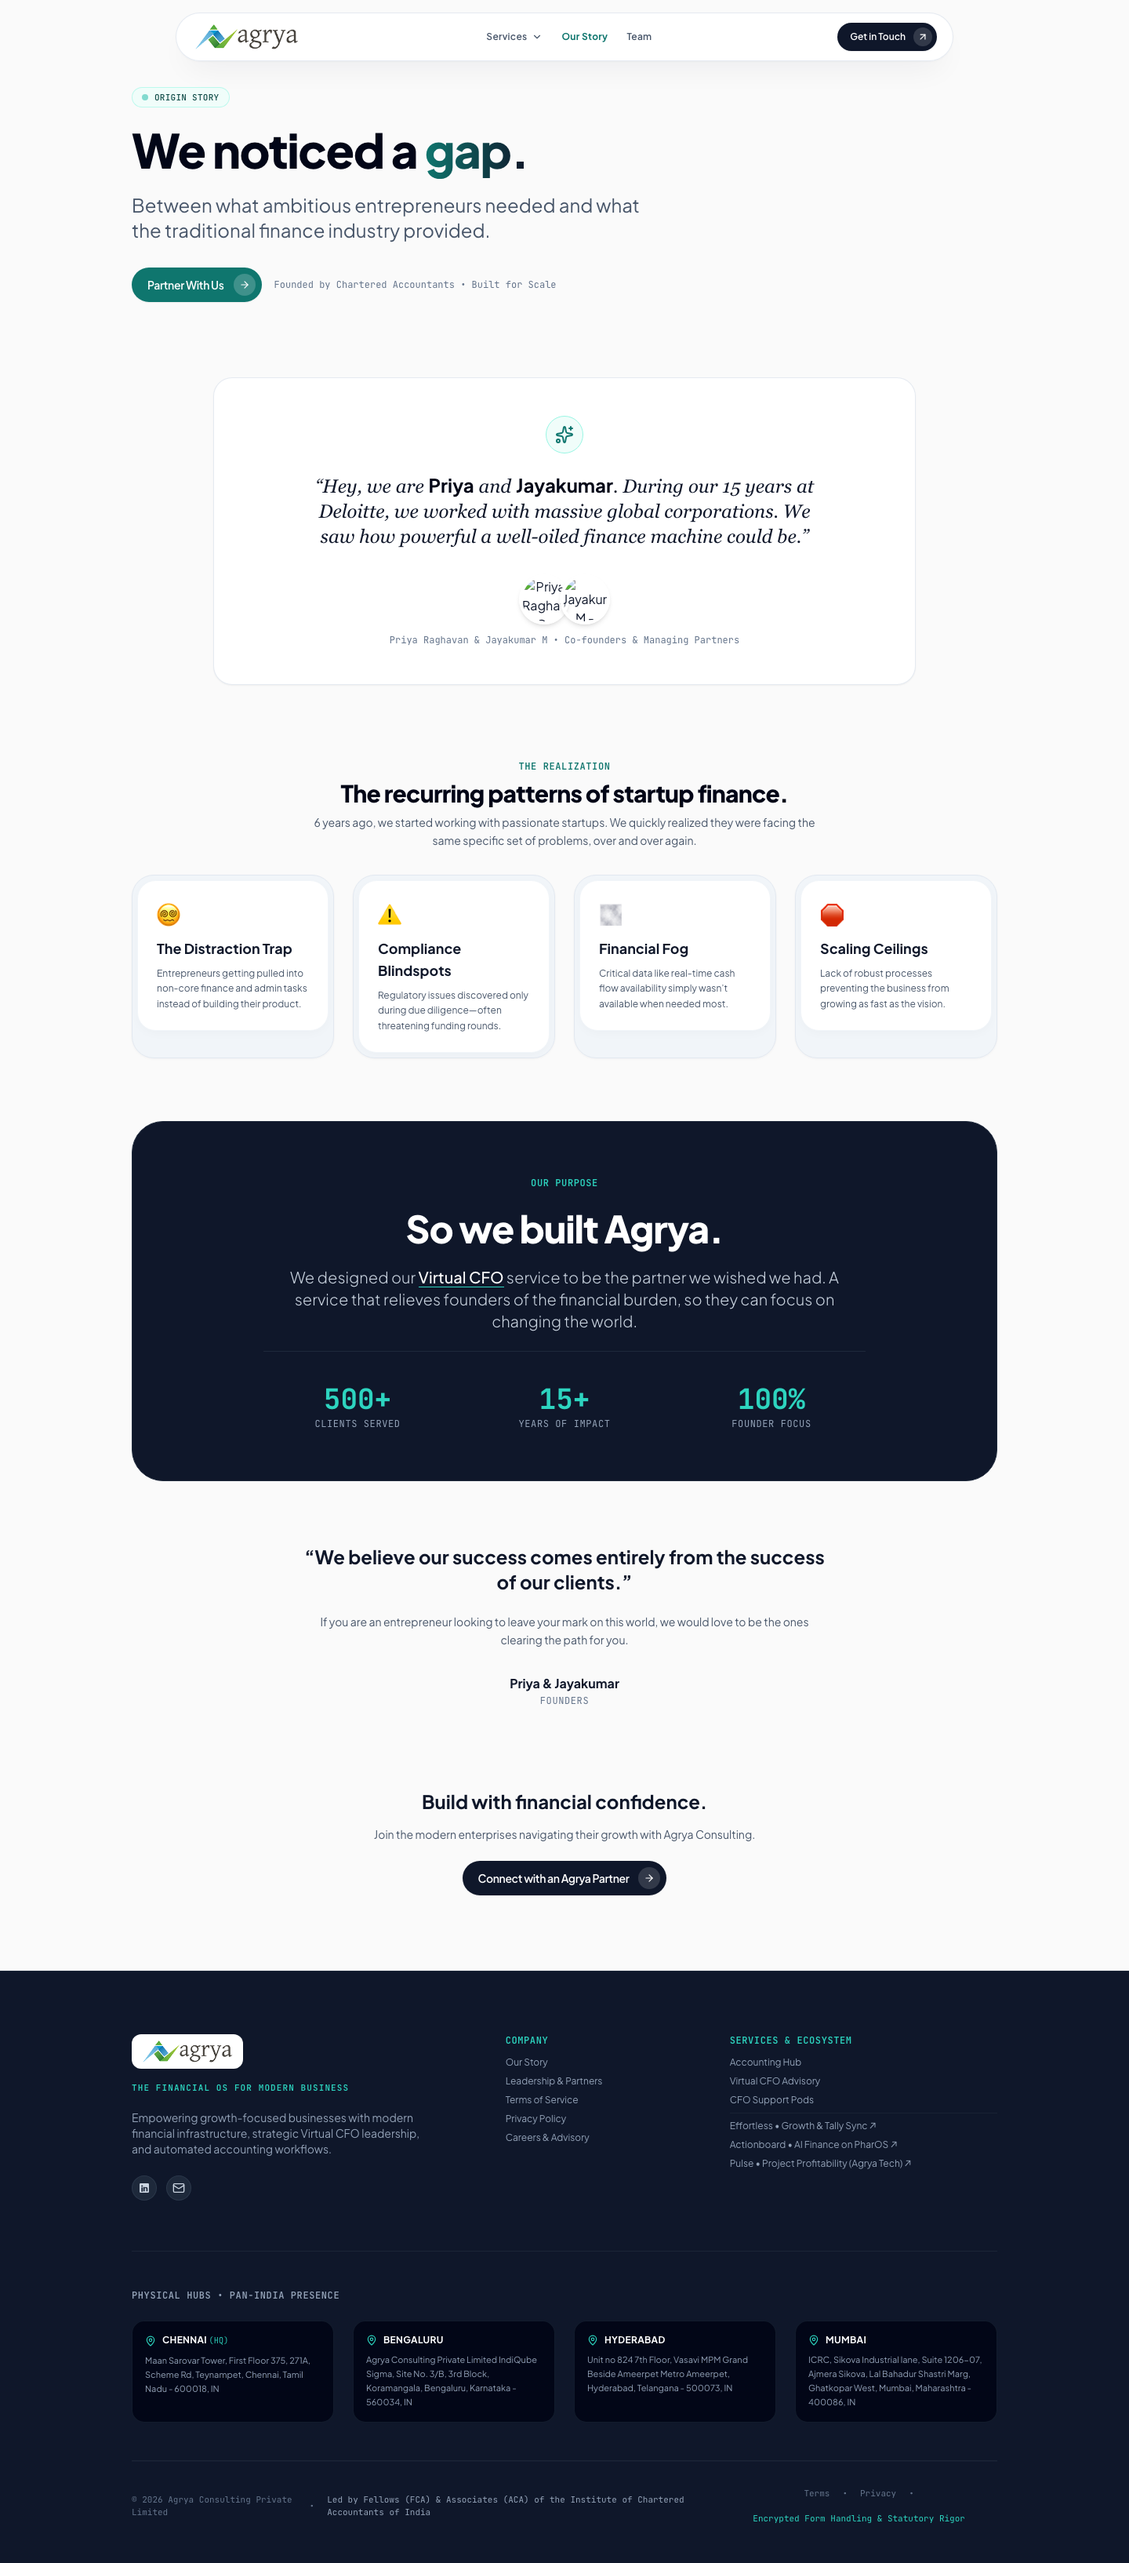
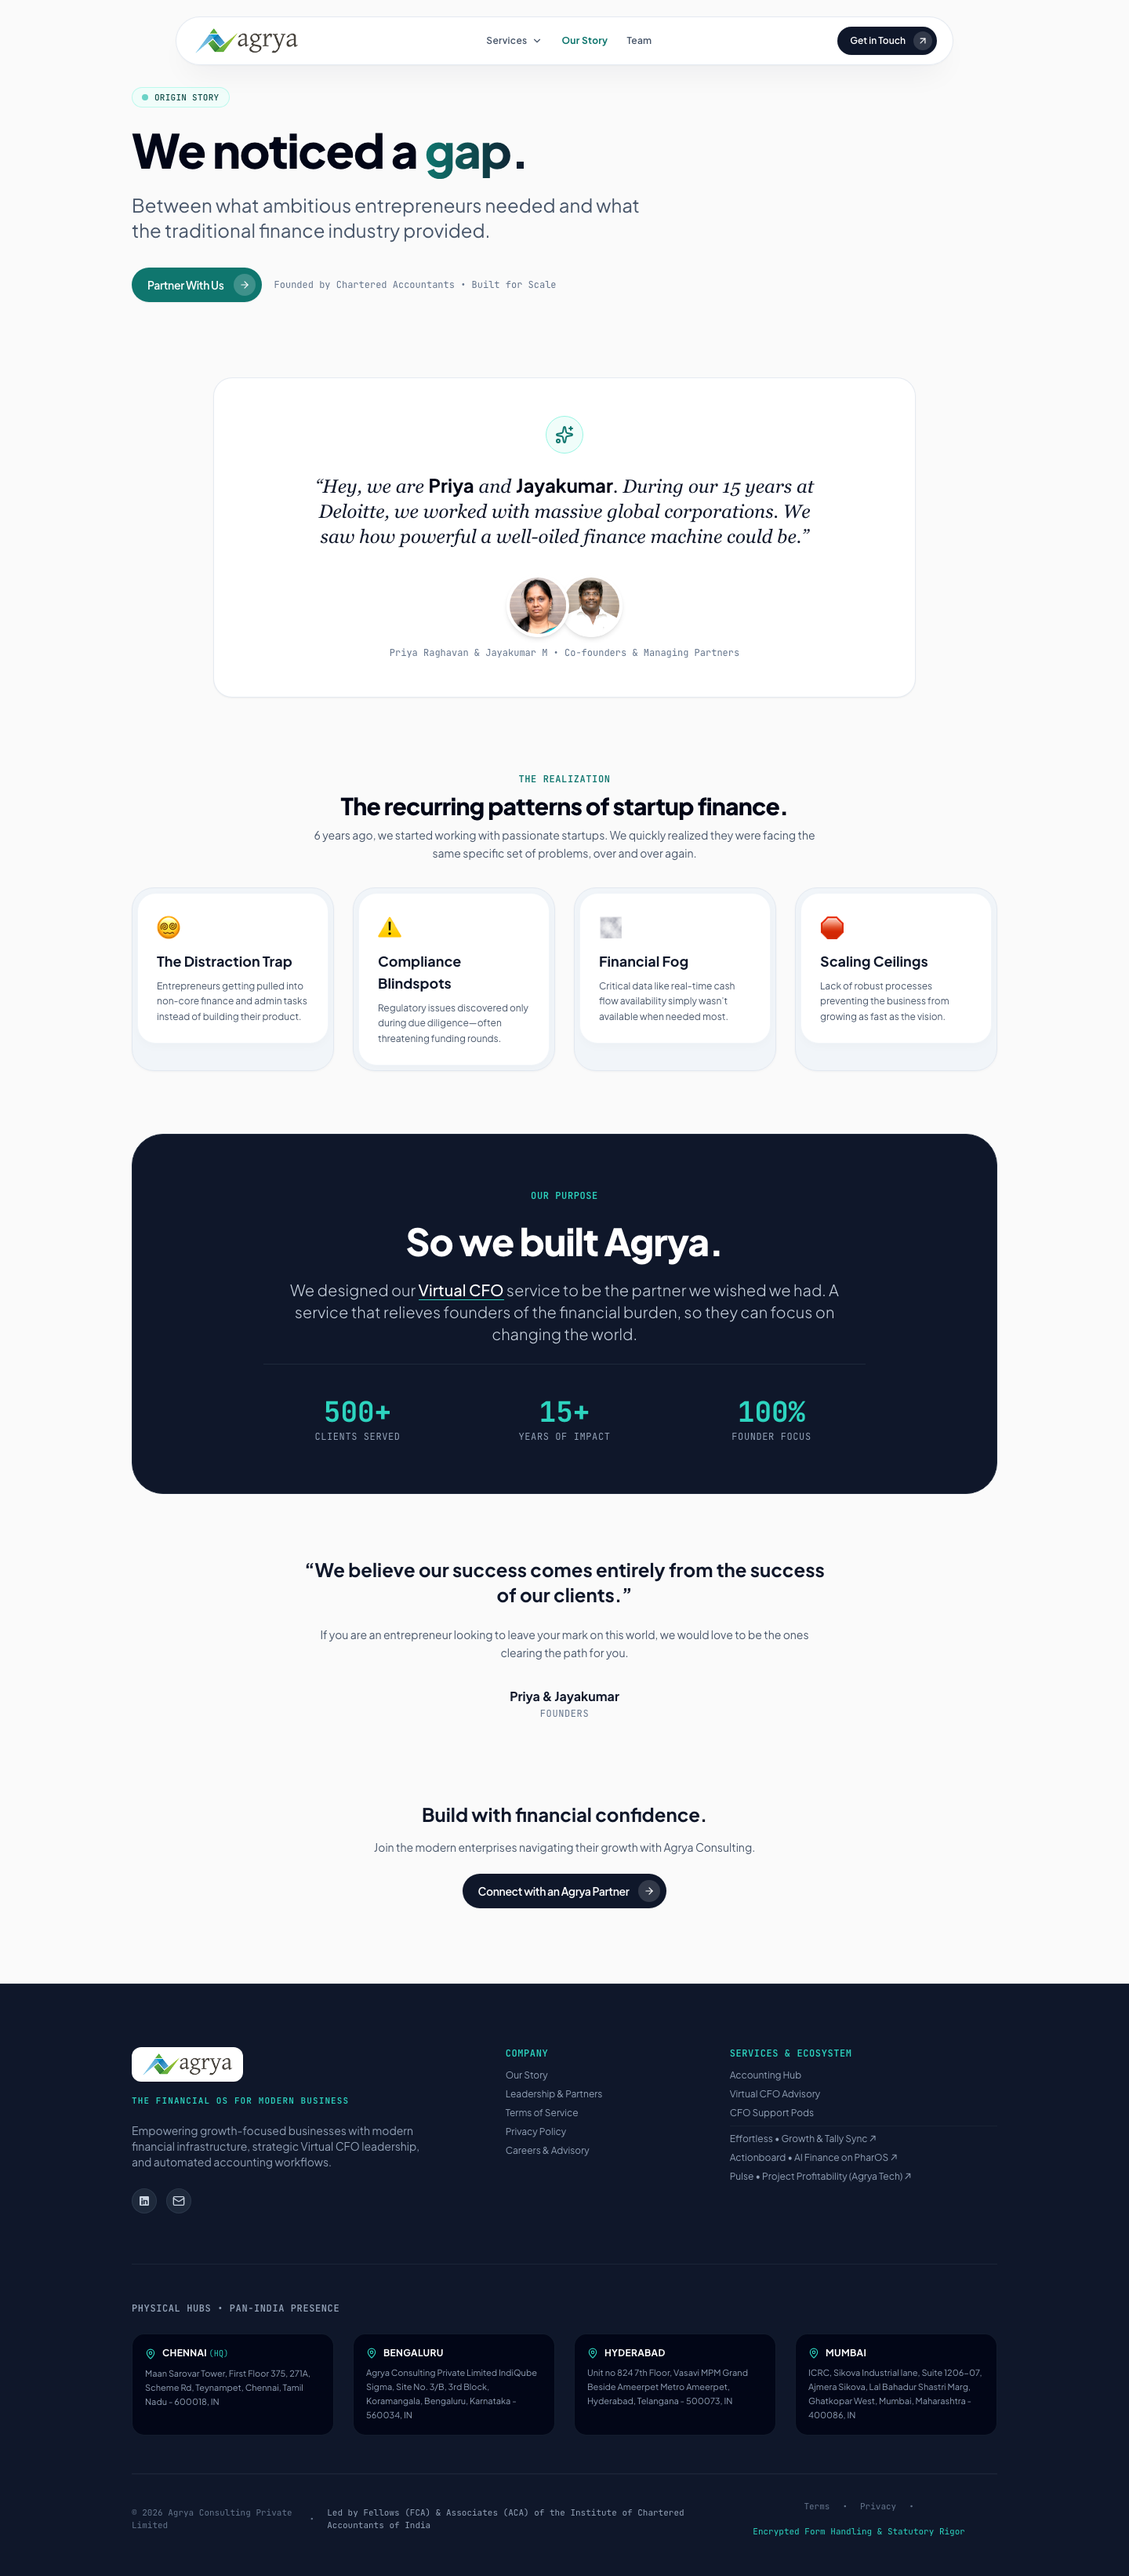
fix(story): restore missing founder images for Priya Raghavan and Jayakumar M
- Fixed image paths in StoryPage.tsx from broken /assets/team-* to canonical /assets/original/team/*
- Added public/assets/ fallback aliases for team-priya.png and team-jayakumar.png
- Verified naturalWidth 227x240 rendered without network failure in Playwright test
- Captured updated screenshots for desktop (1440px) and mobile (390px)

diff --git a/src/pages/StoryPage.tsx b/src/pages/StoryPage.tsx
@@ -53,14 +53,14 @@ export const StoryPage: React.FC<StoryPageProps> = ({ onOpenInquiry }) => {
 
           <div className="mt-8 flex items-center justify-center -space-x-3">
             <img 
-              src="/assets/team-priya.png" 
-              alt="Priya Raghavan - Co-founder" 
-              className="w-16 h-16 rounded-full border-4 border-white shadow-md object-cover"
+              src="/assets/original/team/priya.png" 
+              alt="Priya Raghavan - Co-founder and Managing Partner" 
+              className="w-16 h-16 sm:w-20 sm:h-20 rounded-full border-4 border-white shadow-md object-cover relative z-10"
             />
             <img 
-              src="/assets/team-jayakumar.png" 
-              alt="Jayakumar M - Co-founder" 
-              className="w-16 h-16 rounded-full border-4 border-white shadow-md object-cover"
+              src="/assets/original/team/jayakumar.png" 
+              alt="Jayakumar M - Co-founder and Managing Partner" 
+              className="w-16 h-16 sm:w-20 sm:h-20 rounded-full border-4 border-white shadow-md object-cover relative z-0"
             />
           </div>
 
